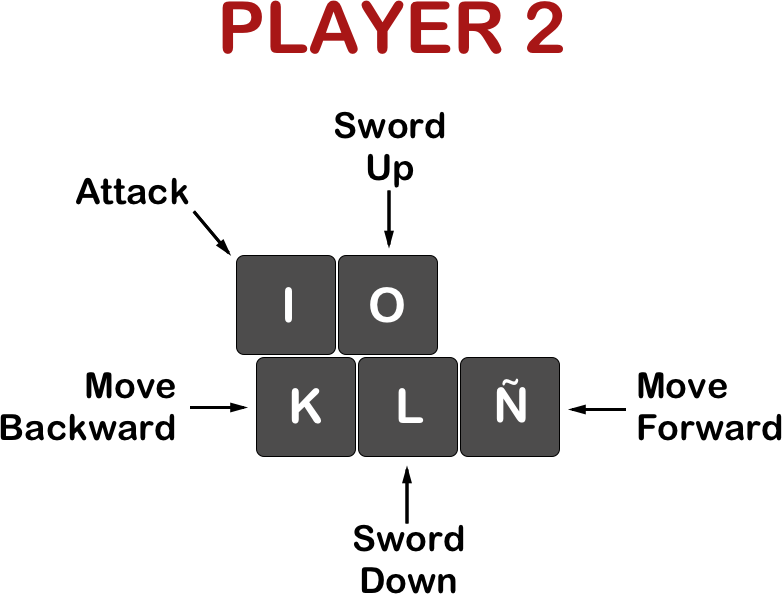
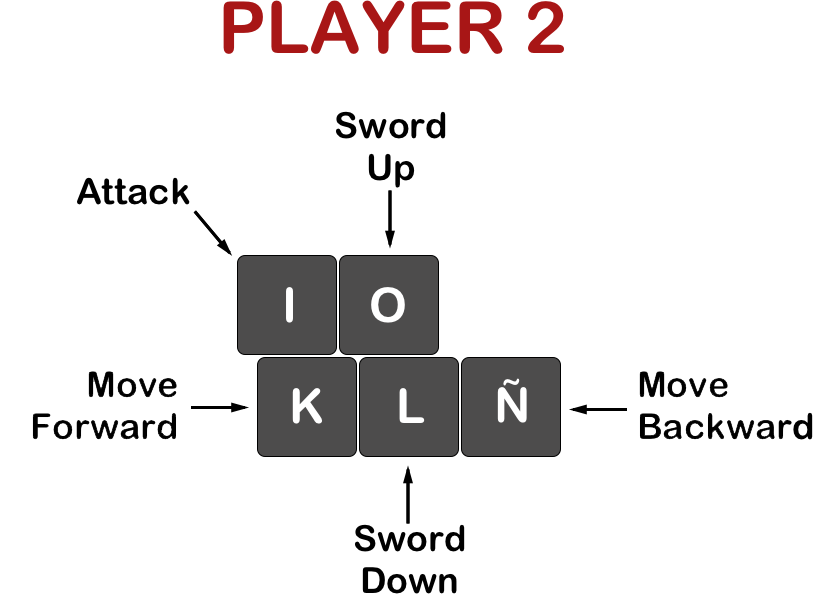
fixed bug in the instrufctions, fix some typos

diff --git a/obj/fight.js b/obj/fight.js
@@ -41,9 +41,9 @@ Fight.prototype.doFrame = function() {
 Fight.prototype.checkIfEnded = function(cb) {
   if (this.player1.score === 3 || this.player2.score === 3) {
     if (this.player1.score === 3) {
-      this.winner = "ONE";
+      this.winner = "1";
     } else if (this.player2.score === 3) {
-      this.winner = "TWO";
+      this.winner = "2";
     };
     this.ended = true;
     cb(this);

diff --git a/main.js b/main.js
@@ -68,7 +68,7 @@ function main() {
         <img class="controls" src="images/controls-two.png">
       </div>
       <div class="btn-holder">
-        <button class="btn-back">Back!</button>
+        <button class="btn-back">Back</button>
       </div>
       <audio src="sounds/main.ogg" autoplay></audio>
     </div>`);
